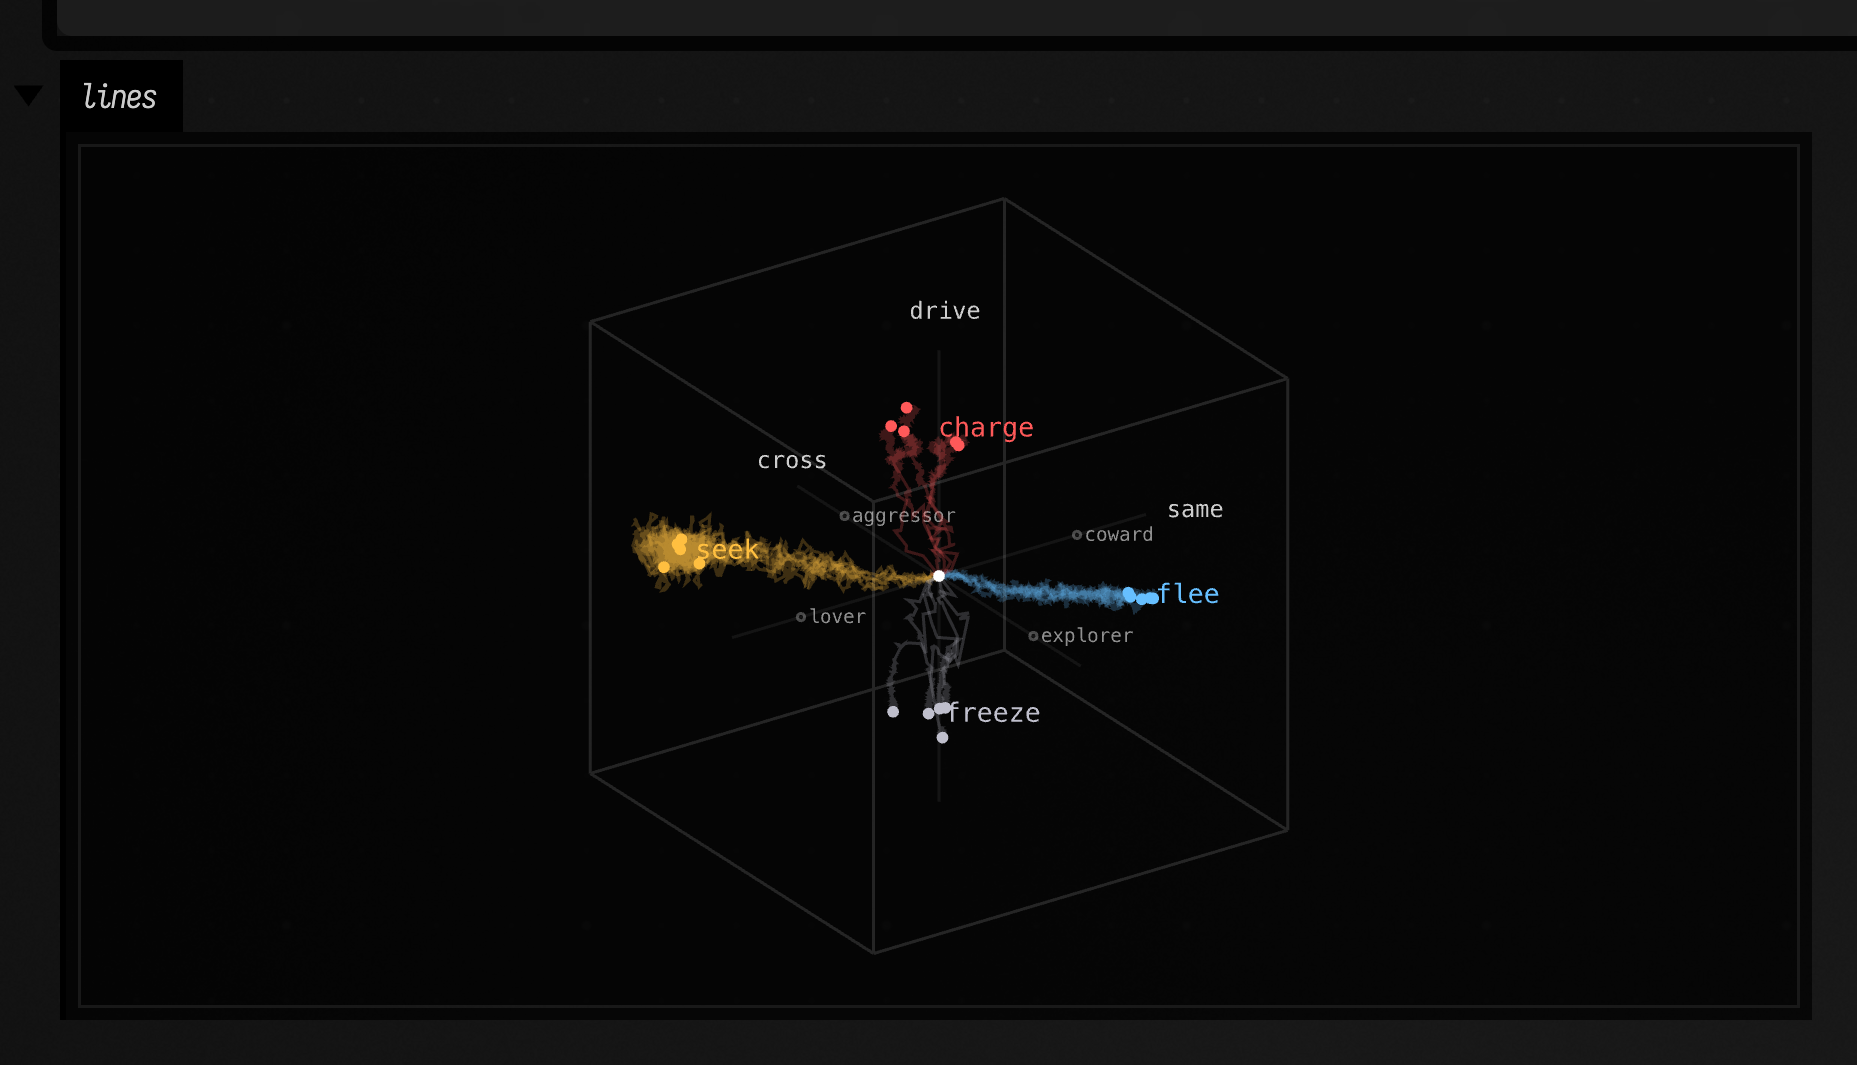
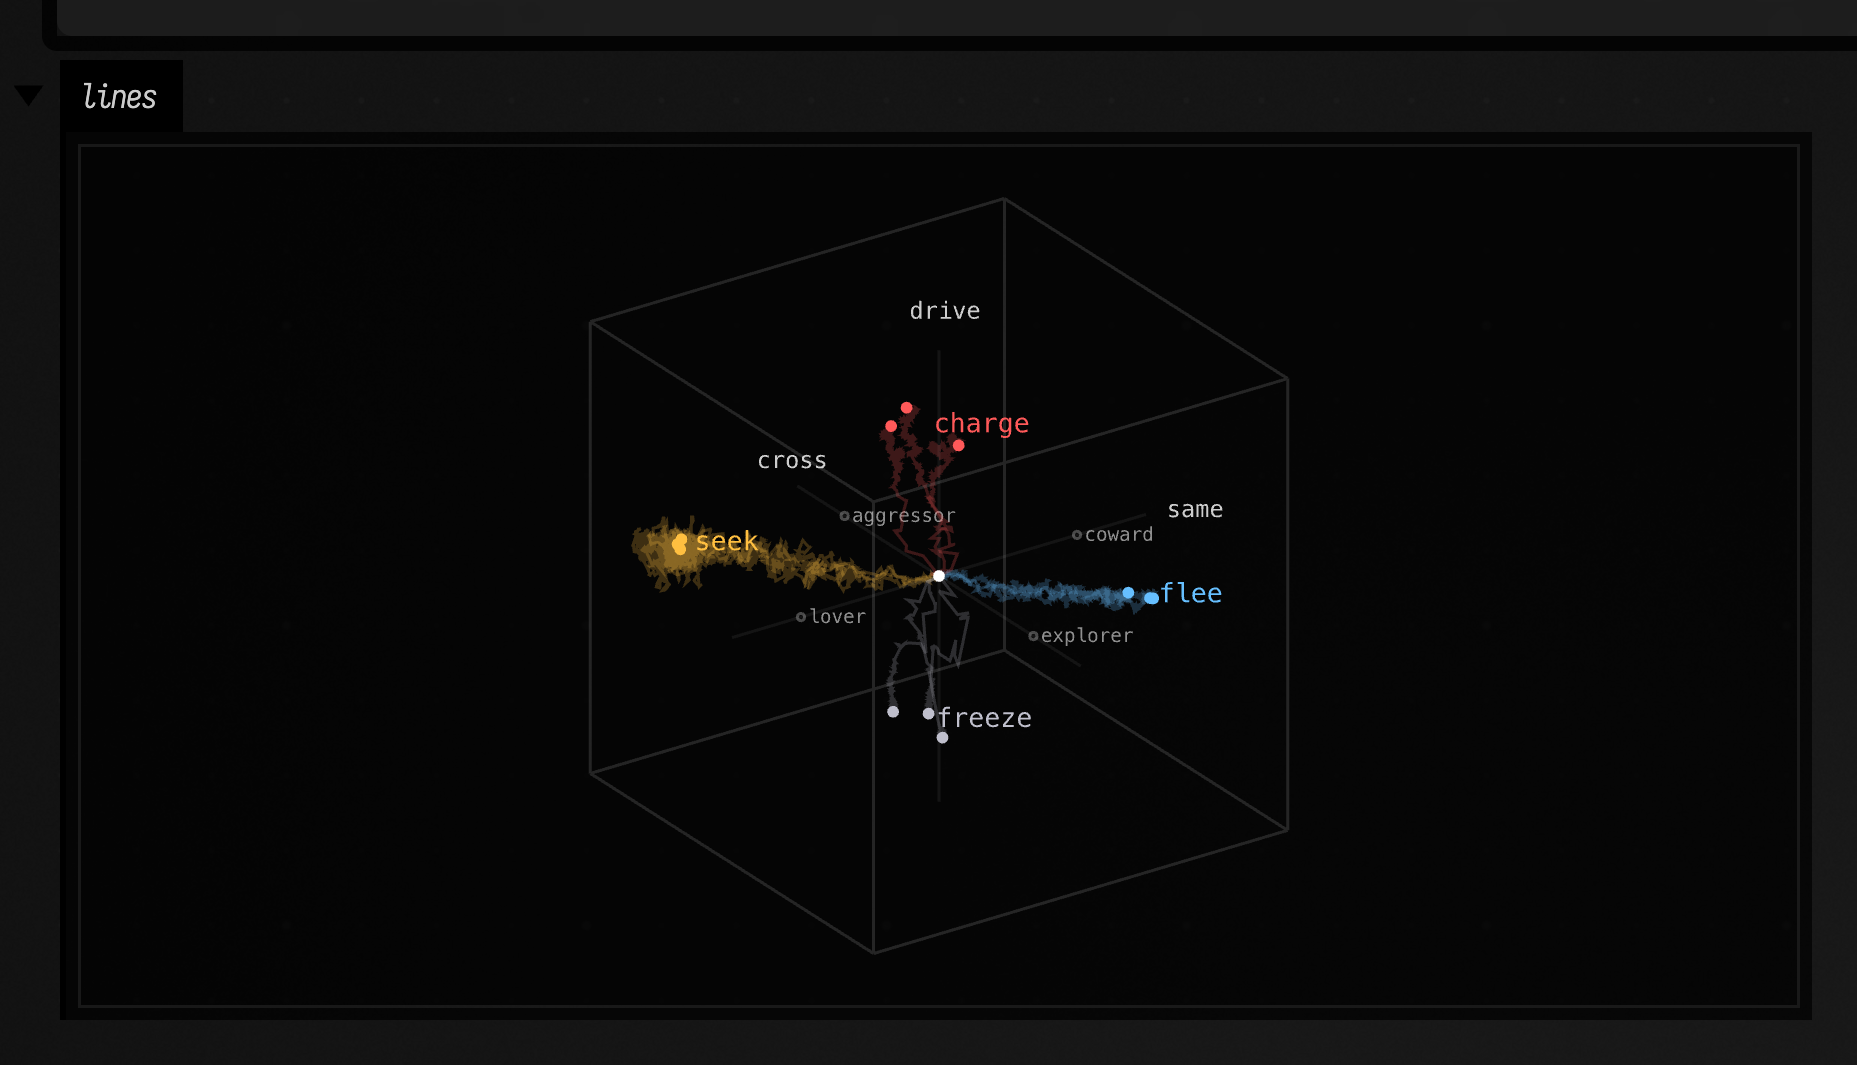
docs(braitenberg): rewards figure with three learners per reward (fits the 30 s runloop watchdog); numbers updated

diff --git a/dev_docs/agents/demos/braitenberg_weight_cube/cube_rewards_code_.kt b/dev_docs/agents/demos/braitenberg_weight_cube/cube_rewards_code_.kt
@@ -7,9 +7,9 @@ val colours = [
     CubeReward.CHARGE to vec(1.0, 0.35, 0.35, 1.0),
 ]
 
-// Five learners per reward, all from the centre of the cube, trained in parallel.
+// Three learners per reward, all from the centre of the cube, trained in parallel.
 val learners = colours.associate { (reward, _) ->
-    reward to (1..5).map { k -> WeightCubeLearner(lights, reward, seed = 100L + k) }
+    reward to (1..3).map { k -> WeightCubeLearner(lights, reward, seed = 100L + k) }
 }
 learners.values.flatten().parallelStream().forEach { it.train(2000) }
 val drawn = colours.flatMap { (reward, colour) ->

diff --git a/public/docs/braitenberg_vehicles.md b/public/docs/braitenberg_vehicles.md
@@ -332,11 +332,11 @@ hill climber and the small evolving population in §10.
 
 ### Changing the reward
 
-Score the same trials differently and the learners end in different places. Five learners per
+Score the same trials differently and the learners end in different places. Three learners per
 reward, all starting from the centre: `SEEK` scores the light at the body as before, `FLEE` scores
 minus the light, `FREEZE` minus the speed, and `CHARGE` the light plus the speed.
 
-```diffstatic_runner {data-lang=kotlin screenshot="assets/braitenberg_vehicles/cube_rewards.png" embed=true wait="10.0" timeout="300" capture="box" open-outputs="true" padding="20" w="640" trim="true" alt="twenty learner paths from the centre of the weight cube in four colours: seek runs to negative same, flee to positive same, freeze straight down in drive and charge straight up"}
+```diffstatic_runner {data-lang=kotlin screenshot="assets/braitenberg_vehicles/cube_rewards.png" embed=true wait="10.0" timeout="300" capture="box" open-outputs="true" padding="20" w="640" trim="true" alt="twelve learner paths from the centre of the weight cube in four colours: seek runs to negative same, flee to positive same, freeze straight down in drive and charge straight up"}
 val lights = [Light(60.0, 60.0), Light(180.0, 70.0), Light(120.0, 180.0), Light(200.0, 200.0)]
 val view = CubeView(size = 560.0)
 val colours = [
@@ -346,9 +346,9 @@ val colours = [
     CubeReward.CHARGE to vec(1.0, 0.35, 0.35, 1.0),
 ]
 
-// Five learners per reward, all from the centre of the cube, trained in parallel.
+// Three learners per reward, all from the centre of the cube, trained in parallel.
 val learners = colours.associate { (reward, _) ->
-    reward to (1..5).map { k -> WeightCubeLearner(lights, reward, seed = 100L + k) }
+    reward to (1..3).map { k -> WeightCubeLearner(lights, reward, seed = 100L + k) }
 }
 learners.values.flatten().parallelStream().forEach { it.train(2000) }
 val drawn = colours.flatMap { (reward, colour) ->
@@ -366,11 +366,11 @@ val start = view.dot(CubeWiring(0.0, 0.0, 0.0), vec(1.0, 1.0, 1.0, 1.0), 4.0)
 lines(view.frame() + drawn + start, w = 560.0, h = 560.0)
 ```
 
-Each reward has its own basin. The seekers end, on average, at `same = −2.9, cross = 1.2,
-drive = 0.6`, the lover-and-aggressor of the first figure, with light 0.69. The fleers end at
-`same = 2.4, cross = −0.7, drive = −0.7`, Braitenberg's coward with a little explorer in it: they
+Each reward has its own basin. The seekers end, on average, at `same = −2.9, cross = 1.3,
+drive = 0.7`, the lover-and-aggressor of the first figure, with light 0.72. The fleers end at
+`same = 2.4, cross = −0.8, drive = −0.6`, Braitenberg's coward with a little explorer in it: they
 speed up on the side facing a lamp, turn away and slow down in the dark, and the light at their
-bodies falls from 0.30 to 0.20. The freezers move only along `drive`, to −1.6: once the motor
+bodies falls from 0.30 to 0.20. The freezers move only along `drive`, to −1.7: once the motor
 neurons are off the weights do nothing, so the learner never moves them, and the speed falls from
 0.75 to 0.17, just above the wheels' idle speed of 0.15. The chargers move only up `drive`, to
 1.75, and drive at 1.33 with light 0.26, slightly worse than where they started. Speed is worth
